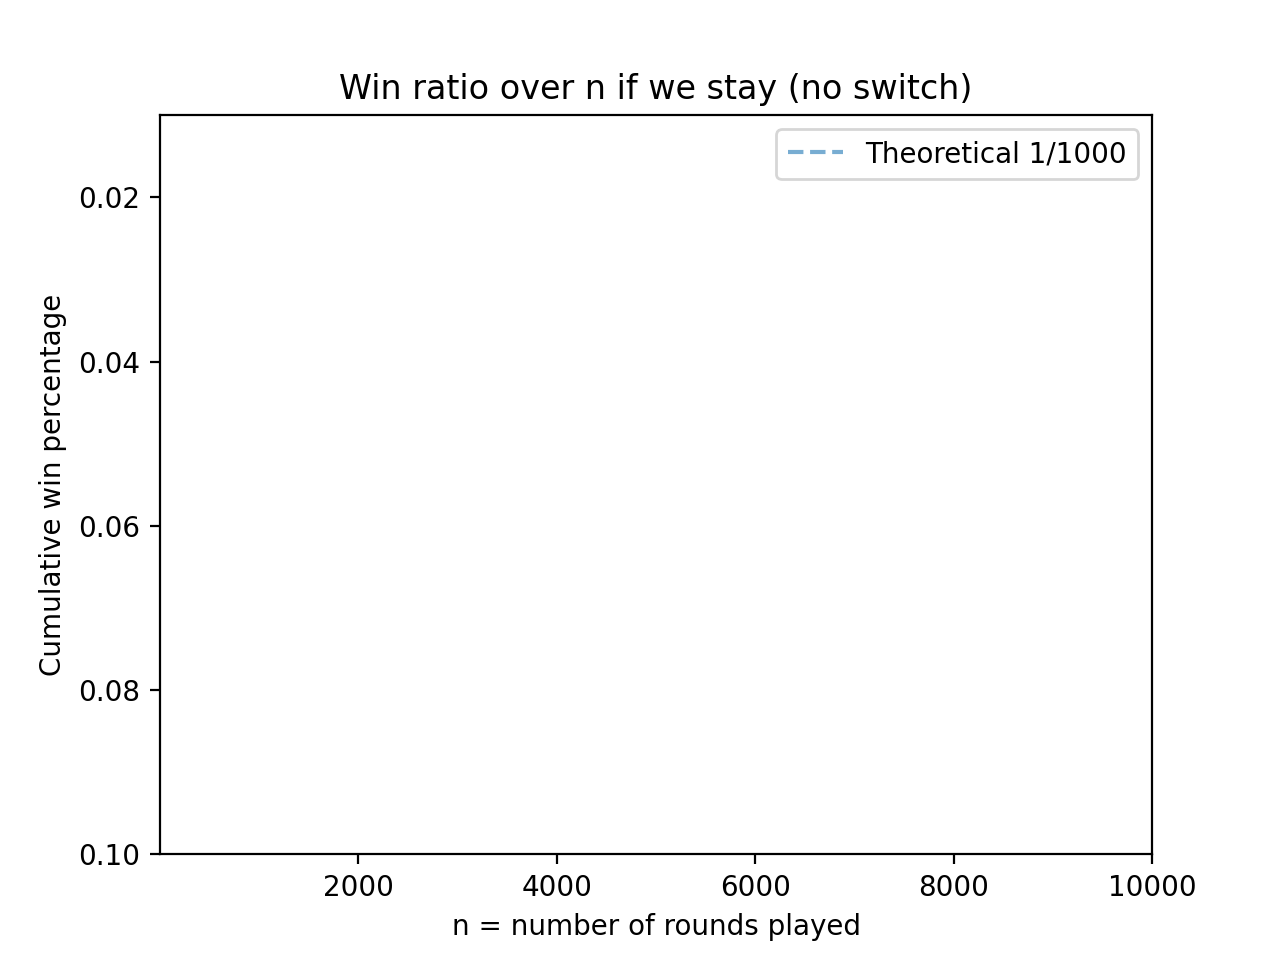
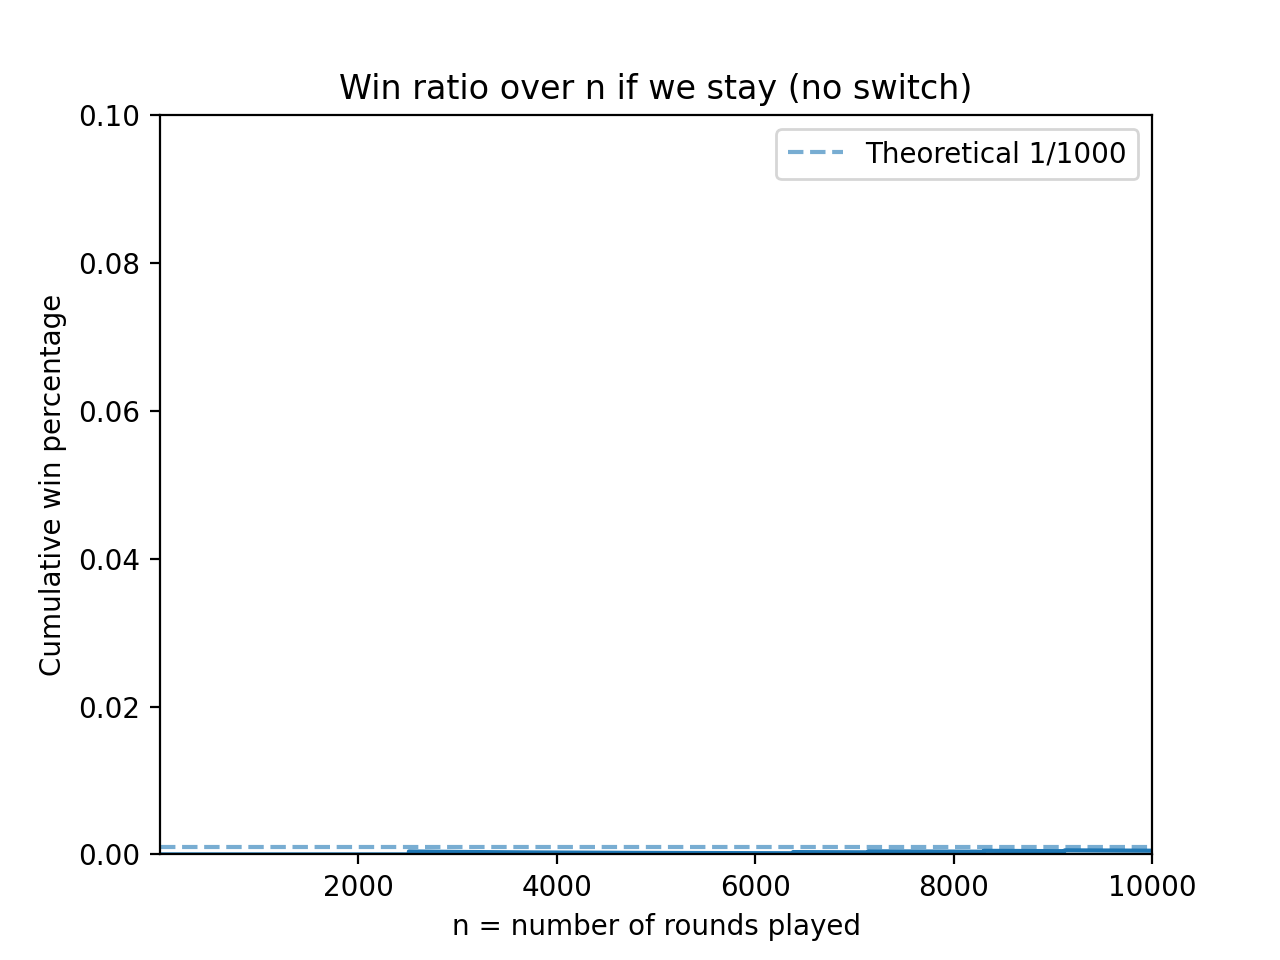
Minden Monty Kesz

diff --git a/Monty_Hall_Problem_FrenchCards.py b/Monty_Hall_Problem_FrenchCards.py
@@ -1,12 +1,8 @@
 """
-Monty_Hall_Problem in a Nushell
+Monty_Hall_Problem in a Nushell, but with the twist of using French Cards instead of doors. 
 
-The Monty Hall problem is a famous probability puzzle based on a game show scenario. The problem is named after Monty Hall, the original host of the television game show "Let's Make a Deal." The puzzle goes as follows:
-1. You are a contestant on a game show, and you are presented with three doors. Behind one door is a car (the prize you want), and behind the other two doors are goats (which you do not want).
-2. You choose one of the three doors, but it is not opened immediately.
-3. The host, Monty Hall, who knows what is behind each door, opens one of the two doors that you did not choose, revealing a goat.
-4. Monty then gives you the option to either stick with your original choice or switch to the other unopened door.
-The question is: Should you stick with your original choice, switch to the other door, or does it not matter?
+The problem is the same, but instead of 3 doors we have 52 cards, one of which is the Ace of Spades (the "car") and the other 51 are "goats". 
+The host will reveal 50 goats and give you the option to switch to the remaining card or stick with your original choice. The question remains: Should you switch or stick?
 """
 
 """
@@ -16,8 +12,10 @@ In main() we define the number of rounds we play and call win_ratios_over_time (
 
 """
 The result should confirm one of 2 theories:
-1. There should be a 50-50 chance of winning whether you switch or not (i.e. it doesn't matter if you switch or not) -> We are choosing between 2 doors, what happened earlier doesn't matter.
-2. Each Door has a 1/3 chance at the beginning, so in the separation 1 to 2 you have 33% to have the car and the host has 66% to have the car. The host will have 66% even after revealing a door and therefore the remaining door will have 66% chance to have the car.
+1. There should be a 50-50 chance of winning whether you switch or not (i.e. it doesn't matter if you switch or not) -> We are choosing between 2 cards, what happened earlier doesn't matter.
+2. Each Card has a 1/52 chance at the beginning, so in the separation 1 to 51 you have 1.92% to have the car and the host has 98.08% to have the car. The host will have 98.08% even after revealing 50 cards and therefore the remaining card will have 98.08 % chance to have the car.
+
+I think we all have a "gut feeling" that it is almost impossible to have picked the right card at the beginning, so we should switch (as the host is "hiding" the card where the car is). Let's see if the numbers confirm this intuition!
 """
 
 import random
@@ -25,25 +23,30 @@ import numpy as np
 import matplotlib.pyplot as plt
 
 def monty_hall_game(switch: bool) -> bool:
-    # defining what's behind the doors (0 -> car, 1 -> goat)
-    #The first door has the car, the other two have goats:
-    doors = [0, 1, 1]
-    #We shuffle the doors to randomize their positions:
-    random.shuffle(doors)
+    # defining what's behind the cards (0 -> car, 1 -> goat)
+    #The first card has the car, the other 51 have goats:
+    cards = [0] + [1] * 51
+    #We shuffle the cards to randomize their positions:
+    random.shuffle(cards)
 
-    # Player get's to choose a door of her liking
-    choice = random.randint(0, 2)
+    # Player get's to choose a card of her liking
+    choice = random.randint(0, 51)
 
-    # Host reveals a door that has a goat behind it
-    eligible = [i for i in range(3) if i != choice and doors[i] == 1]
-    host_reveal = random.choice(eligible)
+    # Host keeps exactly ONE other card closed
+    if cards[choice] == 0:
+        # player picked the car -> host keeps a random goat card closed
+        remaining = [i for i in range(52) if i != choice and cards[i] == 1]
+        other_card = random.choice(remaining)
+    else:
+        # player picked a goat -> host must keep the car card closed
+        other_card = cards.index(0)
 
-    # If the player decides to switch, she picks the remaining door
+    # If the player decides to switch, she picks the remaining card
     if switch:
-        choice = next(i for i in range(3) if i != choice and i != host_reveal)
+        choice = other_card
 
-    # Win if chosen door has the car
-    return doors[choice] == 0
+    # Win if chosen card has the car
+    return cards[choice] == 0
 
 
 def win_ratios_over_time(num_rounds: int, switch: bool) -> np.ndarray:
@@ -77,10 +80,10 @@ y = ratios[:plot_limit]
 plt.title("Win ratio over n if we stay (no switch)")
 plt.xlabel("n = number of rounds played")
 plt.ylabel("Cumulative win percentage")
-plt.axhline(y=1/3, linestyle="--", alpha=0.6, label="Theoretical 1/3")
+plt.axhline(y=1/52, linestyle="--", alpha=0.6, label="Theoretical 1/52")
 plt.plot(x, y)
 plt.xlim(1, plot_limit)
-plt.ylim(0.1, 0.6)
+plt.ylim(0.01, 0.1)
 plt.legend()
-plt.savefig("monty_hall_stay.png", dpi=200)
+plt.savefig("monty_hall_stay_FrenchCards.png", dpi=200)
 #plt.show()

diff --git a/Monty_Hall_Problem_1000Doors.py b/Monty_Hall_Problem_1000Doors.py
@@ -92,7 +92,7 @@ plt.ylabel("Cumulative win percentage")
 plt.axhline(y=1/1000, linestyle="--", alpha=0.6, label="Theoretical 1/1000")
 plt.plot(x, y)
 plt.xlim(1, plot_limit)
-plt.ylim(0.1, 0.01)
+plt.ylim(0, 0.1)
 plt.legend()
 plt.savefig("monty_hall_1000Doors_stay.png", dpi=200)
 #plt.show()
